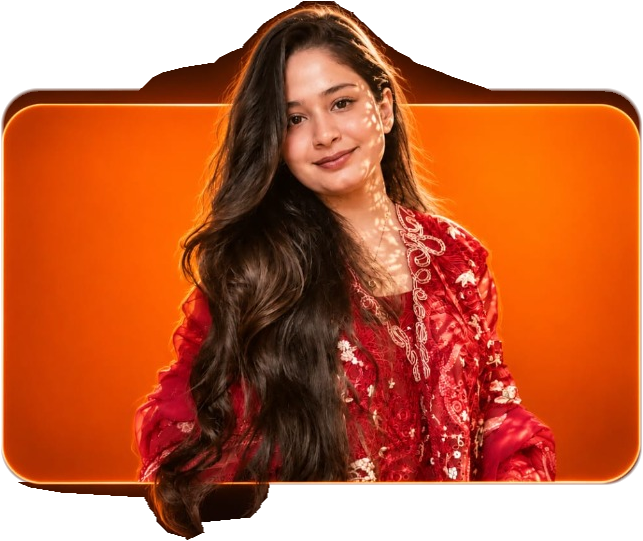
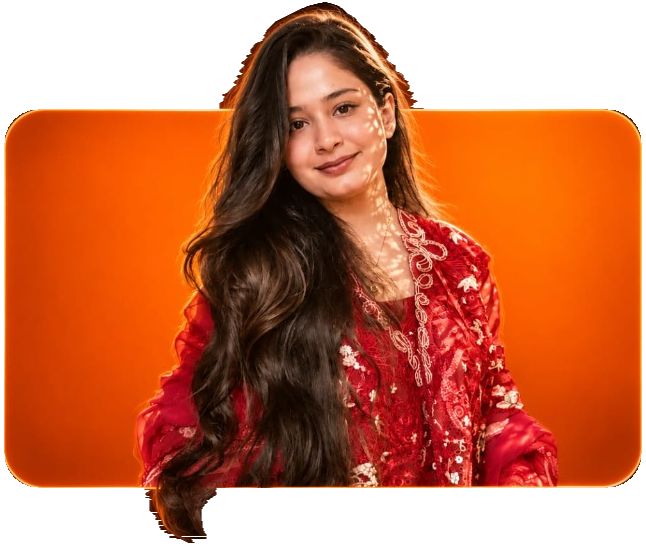
Fix About Section: perfectly matted portrait silhouette without artifacts and single cohesive ABOUT headline

diff --git a/index.html b/index.html
@@ -760,7 +760,7 @@
         <!-- ======================================================== -->
         <!-- 2. ABOUT SECTION (#about) - EDITABLE DESIGN REFERENCE   -->
         <!-- ======================================================== -->
-        <section class="py-8 sm:py-12 lg:py-16 relative overflow-hidden" id="about">
+        <section class="py-8 sm:py-12 lg:py-16 relative overflow-hidden bg-black z-20" id="about">
           <!-- Ambient Orange Glow behind container -->
           <div class="about-ambient-glow"></div>
 
@@ -788,9 +788,9 @@
               <!-- ========================================== -->
               <div class="hidden lg:block relative w-full h-[530px] xl:h-[565px] px-10 xl:px-12 pt-8 xl:pt-10 pb-8 z-10">
                 <!-- Large Oversized "ABOUT" Headline -->
-                <div class="absolute top-5 xl:top-6 left-10 xl:left-12 right-10 xl:right-12 z-[5] pointer-events-none">
-                  <h2 class="about-huge-title flex justify-between w-full text-[9.2rem] xl:text-[10.5rem] m-0 leading-[0.84]">
-                    <span>A</span><span>B</span><span>O</span><span>U</span><span>T</span>
+                <div class="absolute top-4 xl:top-5 left-8 xl:left-10 z-[5] pointer-events-none">
+                  <h2 class="about-huge-title text-[9.8rem] xl:text-[11.5rem] m-0 tracking-[-0.03em] leading-[0.82]">
+                    ABOUT
                   </h2>
                 </div>
 
